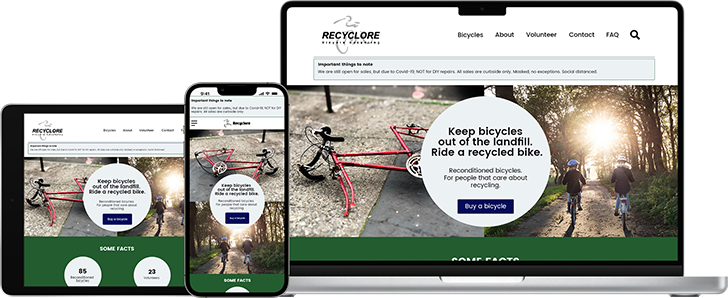
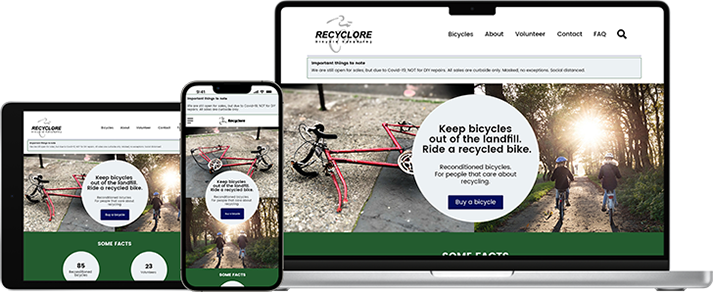
3 Media queries coded, index updatad and images added

diff --git a/css/styles.css b/css/styles.css
@@ -251,8 +251,13 @@ footer p {
         float: right;
     }
 
-    .logo {
-        height: 80px;
+    .container {
+        margin: 20px 20px 20px 20px;
+    }
+
+    .logo a picture img {
+        float: left;
+        margin: auto;
     }
 
     .nav-list {
@@ -265,8 +270,12 @@ footer p {
         margin-top: 15px;
     }
 
+    .welcome .container{
+        text-align: center;
+    }
+
     .welcome .container picture img {
-        margin: 0;
+        margin: 0 auto;
         margin-top: 65px;
         margin-bottom: 40px;
     }
@@ -281,7 +290,7 @@ footer p {
     }
 
     .recommendations .container-recom .container-recom-2 picture img{
-        display: none;
+        visibility: hidden;
     }
 
     .container-recom-2 {
@@ -299,9 +308,10 @@ footer p {
     .banner .container .container-banner {
         width: 360px;
     }
-
-    .banner .container picture{
-        justify-content: flex-end;
+    
+    .banner .container .container-contrast picture img{        
+        float: right;
+        margin: auto;
     }
     
     .footer {
@@ -323,6 +333,7 @@ footer p {
         margin-top: 106px;
         flex-basis: 48%;
         text-align: left;
+        margin-top: 75px;
     }
 
     .footer-inner-right {
@@ -331,7 +342,7 @@ footer p {
         justify-content: flex-end;
         align-items: center;
         flex-basis: 46%;
-        margin-top: 95px;
+        margin-top: 75px;
     }
     
     .orig-img-b {
@@ -352,4 +363,168 @@ footer p {
     
 
 
+}
+
+@media only screen and (min-width: 1280px) {
+    .wrapper {
+        width: 1280px;
+        margin: 0 auto;
+    }
+
+    .navbar {
+        display: flex;
+        height: 81px;
+    }
+
+    .navbar li a {
+        padding: 16px 20px;
+        border-radius: 1px;
+        margin-bottom: 0;
+        float: right;
+        font-size: 24px;
+    }
+
+    .nav-list {
+        display: flex;
+        justify-content: flex-end;
+        align-items: center;
+        flex-basis: 78%;
+        gap: 2px;
+        height: 60px;
+        margin-top: 22px;
+    }
+
+    .container {
+        margin: 20px 80px 20px 80px;
+    }
+
+    .recommendations {
+        margin: 20px 80px 20px 80px;
+    }
+
+    .welcome .container picture img {*/
+        margin-bottom: 100px;
+    }
+
+    h1 {
+        font-size: 96px;
+    }
+
+    h2 {
+        font-size: 60px;
+    }
+
+    p {
+        font-size: 34px;
+    }
+
+    .container-recom-1 {
+        width: 760px;
+        margin-right: 40px;
+    }
+
+    .container-recom-2 {
+        align-items: stretch;
+        background-image: url(/images/circle321.png);
+        width: 320px;
+        height: 341px;
+    }
+
+    .recommendations .container-recom .container-recom-1 p {
+        font-size: 24px;
+        margin-top: 30px;
+    }
+
+    .banner .container {
+        display: flex;
+        gap:40px;
+    }
+
+    .banner .container .container-banner {
+        width: 560px;
+    }
+
+    .banner .container .container-banner p {
+        font-size: 24px;
+        padding-top: 20px;
+        padding-bottom: 20px;
+    }
+
+    .button {
+        background-color: #FF7A69; 
+        border: none;
+        color: #1A1B41;
+        padding: 16px 30px;
+        text-align: center;
+        text-decoration: none;
+        display: inline-block;
+        font-size: 24px;
+        border-radius: 1px;
+        font-weight: 600;
+        margin-bottom: 20px;
+    }
+
+    .banner .container .container-contrast {
+        width: 560px;
+    }
+    
+    .banner .container .container-contrast picture img{        
+        float: right;
+        margin: auto;
+    }
+
+    .footer {
+        background: url(../images/footer_w1280.png);
+        background-repeat: no-repeat;
+        background-size: auto;
+    }
+    
+    .footer {
+        width: 100%;
+        display: flex;
+        height: 278px;
+        flex-wrap: wrap;
+        margin: 0 auto;
+    }
+
+    .footer p {
+        font-size: 20px;
+        margin-top: 68px;
+    }
+
+    .social-text {
+        font-size: 20px;
+        text-decoration: none;
+        color: #FDFDFD;
+    }
+
+    .footer-inner-left {
+        display: flex;
+        /* margin-top: 174px; */
+        flex-basis: 30%;
+        text-align: left;
+        margin: 0 auto;
+    }
+
+    .footer-inner-right {
+        display: flex;
+        flex-direction: row;
+        justify-content: flex-end;
+        align-items: center;
+        margin: 0 auto;
+        gap:20px;
+    }
+
+    .footer-inner-right a{
+        margin-top: 68px;
+    }
+
+    .orig-img-b {
+        margin-left: 0px;
+    }
+
+    .orig-img{
+        margin-left: 0px;
+        margin-right: 32px;
+    }
 }

diff --git a/index.html b/index.html
@@ -16,7 +16,7 @@
             <div class="container">
                 <nav class="navbar">
                     <div class="logo">
-                        <a href="#">
+                        <a href="index.html">
                             <picture>
                                 <source srcset="images/logo--colour202x101.png"
                                         media="(min-width: 1280px)" />
@@ -45,7 +45,7 @@
             <section class="welcome">
                 <div class="container">
                     <picture>
-                        <source srcset="images/mockup-3-devices-good_yb5j4l_c_scale,w_1200.png"
+                        <source srcset="images/mockup-3-devices-good_yb5j4l_c_scale,w_1120.png"
                                 media="(min-width: 1280px)" />
                     
                         <source srcset="images/mockup-3-devices-good_yb5j4l_c_scale,w_728.png"
@@ -100,22 +100,24 @@
                     <div class="container-banner">
                         <h2>Responsive. Design. Accessible. All in a website.</h2>
                         <p>Looking for a better User Experience for your webpage. </p>
-                        <button type="button" class="button">Get a web contrast color evaluation</button>
+                        <button type="button" class="button" onclick="document.location='index.html'">Get a web contrast color evaluation</button>
                     </div>
-                    <picture>
-                        <source srcset="images/contrast_w520.png"
-                                    media="(min-width: 1280px)" />
-                        
-                        <source srcset="images/contrast_w335.png"
-                                    media="(min-width: 768px)" />
-                        
-                        <source srcset="images/contrast_w335.png"
-                                    media="(min-width: 375px)" />
-                        
-                        <img class="orig-img"
-                                src="images/contrast_w520.png"
-                                alt="contrast colour example do and dont">
-                    </picture>
+                    <div class="container-contrast">
+                        <picture>
+                            <source srcset="images/contrast_w520.png"
+                                        media="(min-width: 1280px)" />
+                            
+                            <source srcset="images/contrast_w335.png"
+                                        media="(min-width: 768px)" />
+                            
+                            <source srcset="images/contrast_w335.png"
+                                        media="(min-width: 375px)" />
+                            
+                            <img class="orig-img"
+                                    src="images/contrast_w520.png"
+                                    alt="contrast colour example do and dont">
+                        </picture>
+                    </div>
                 </div>
             </section>
         </main>
